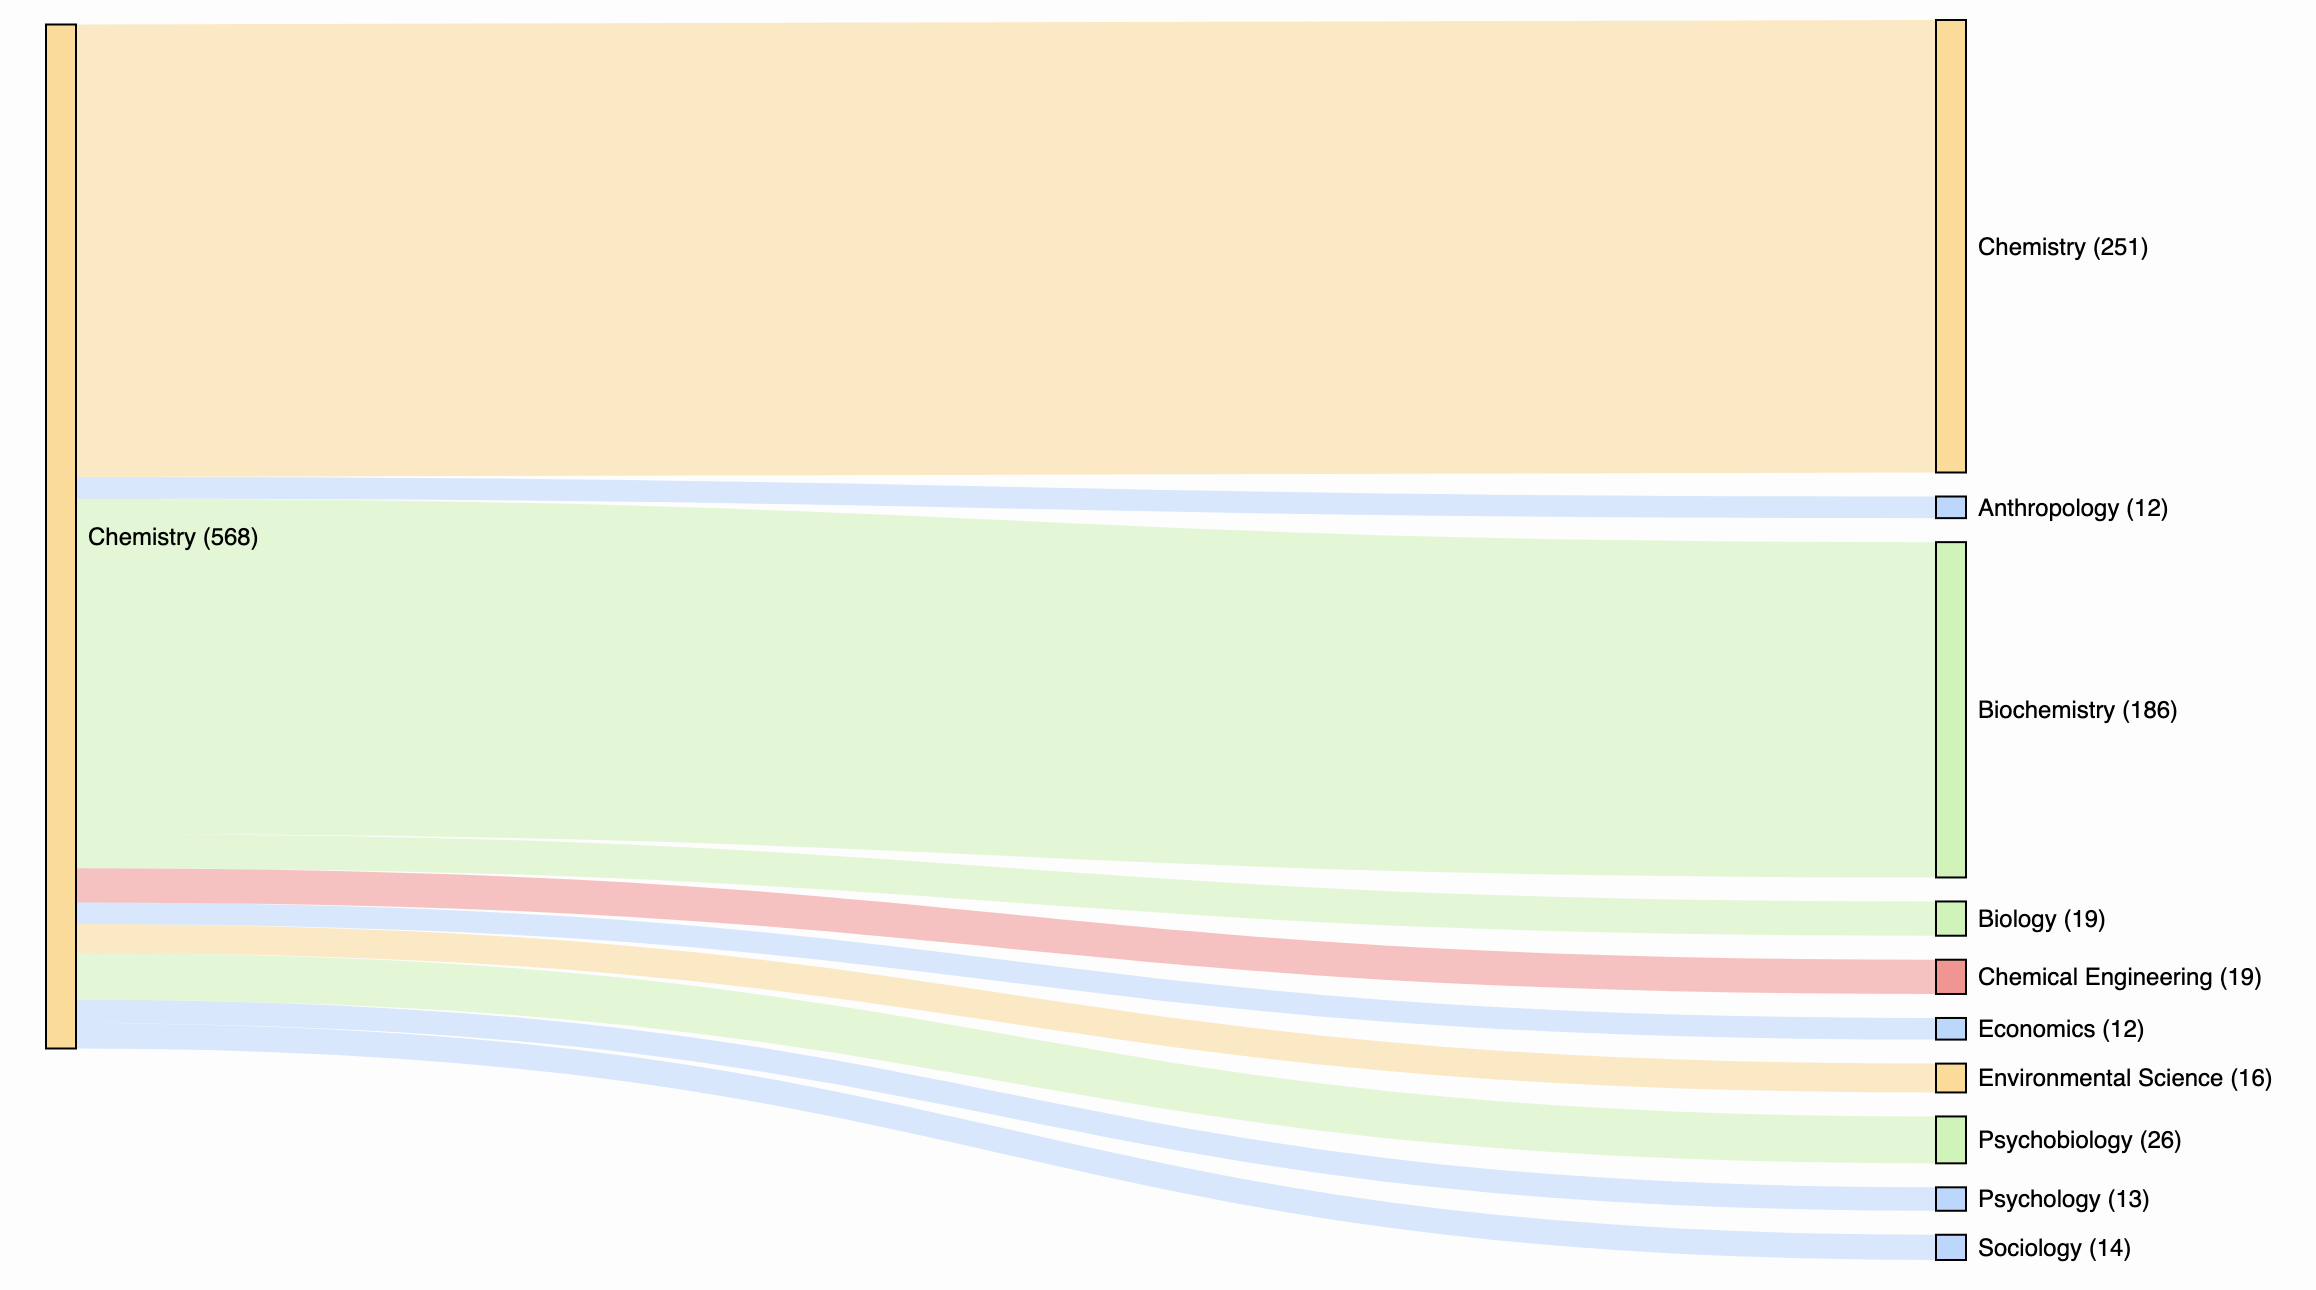
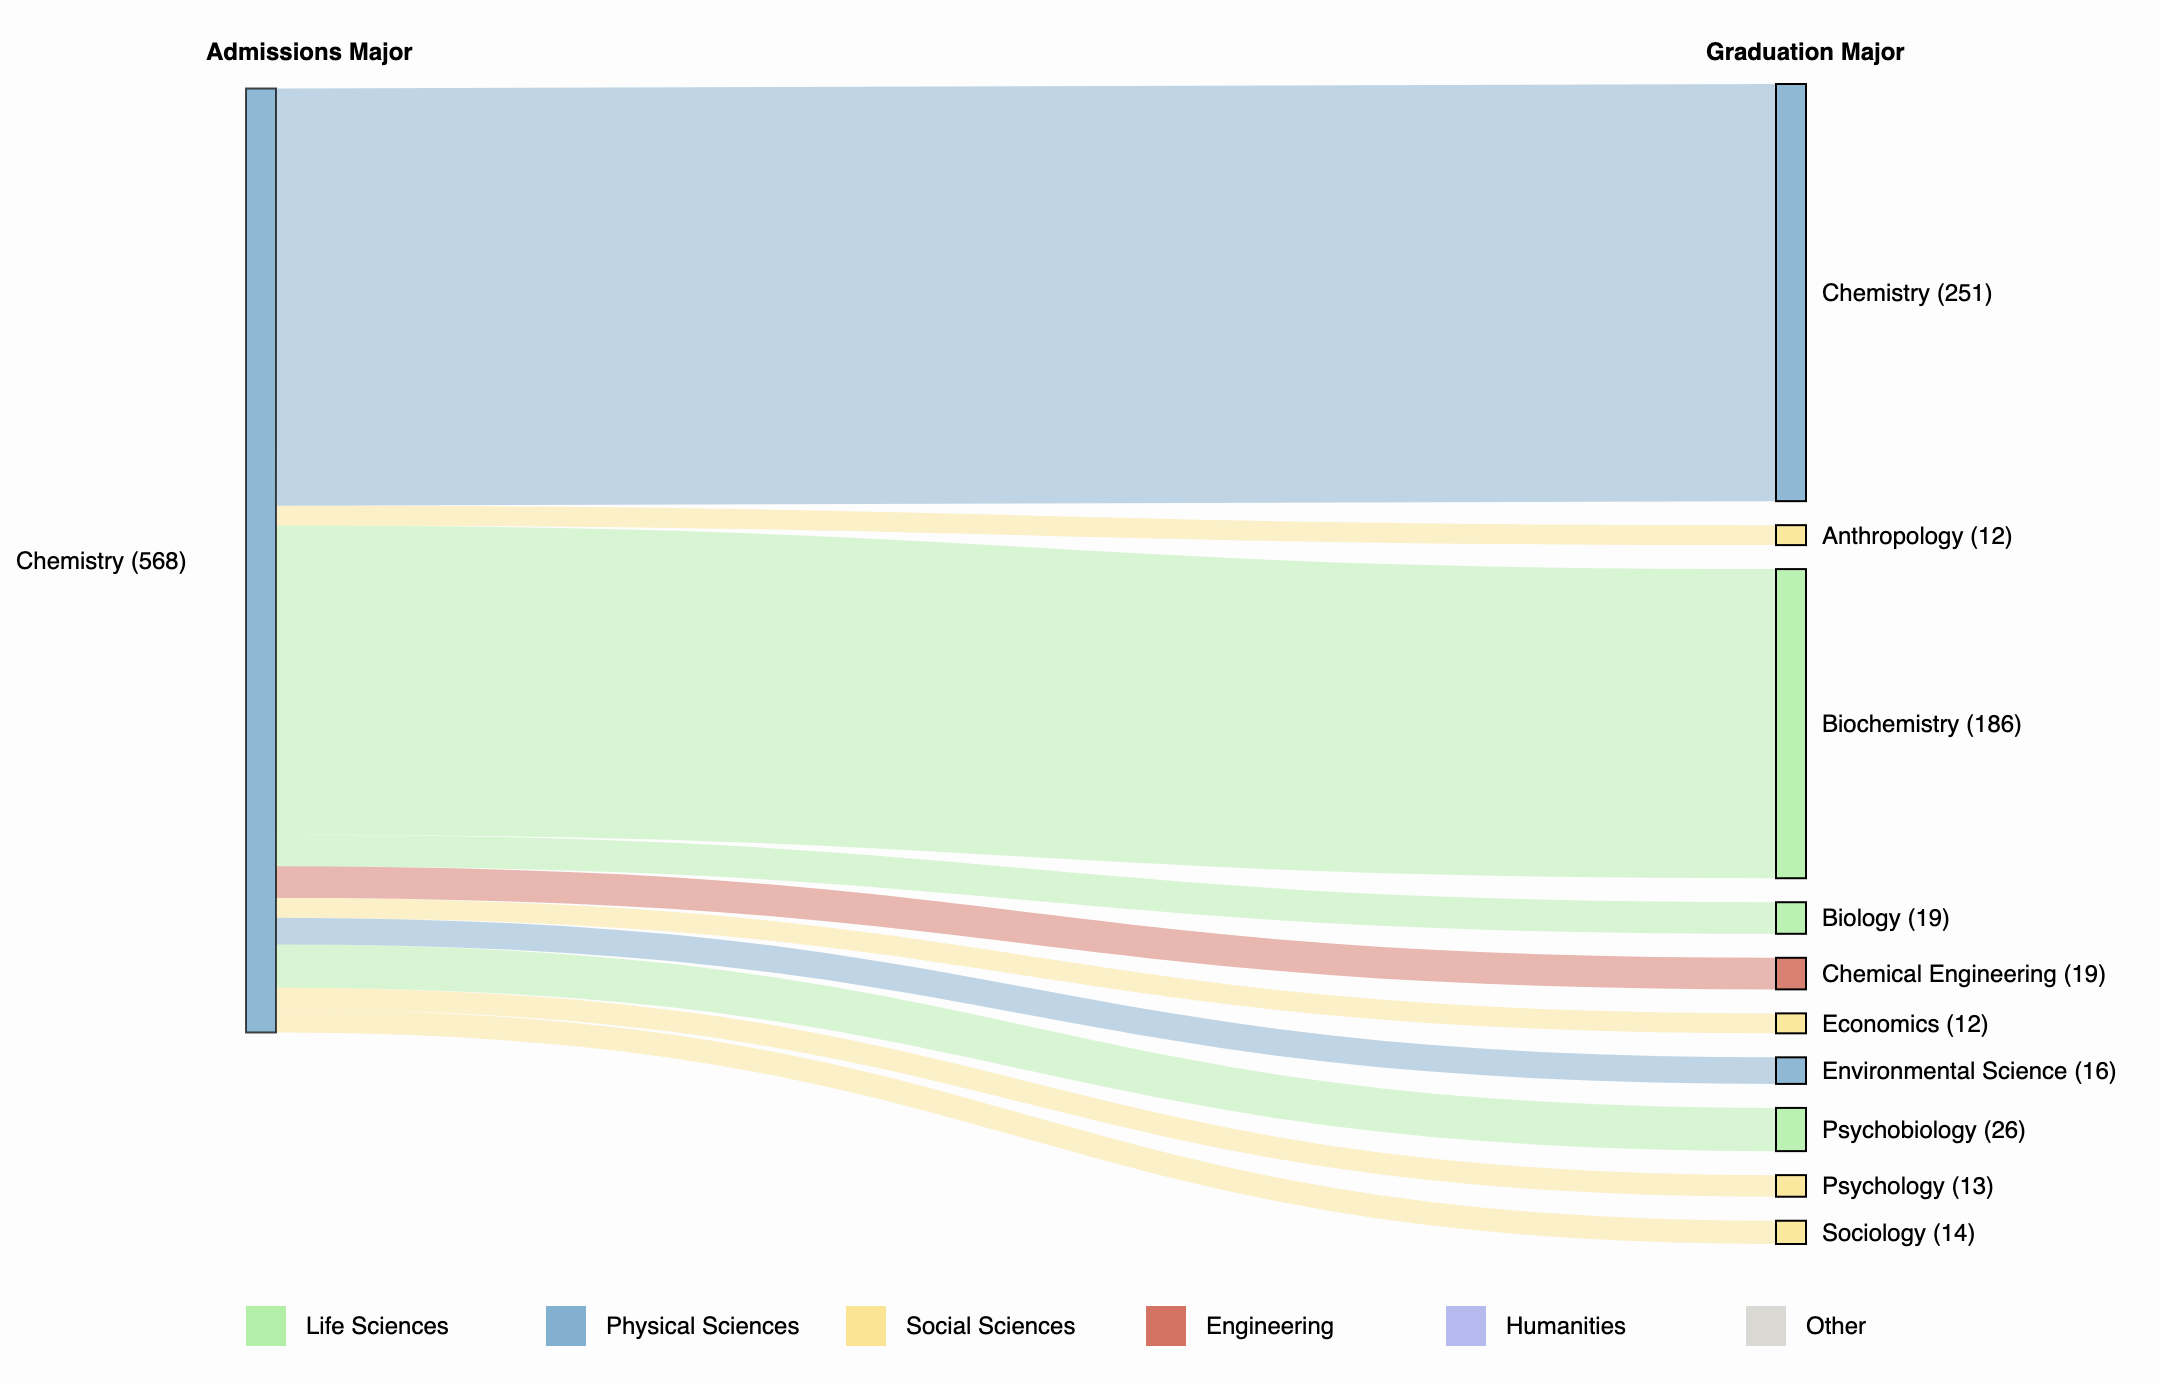
initial edits - finalize sankey

diff --git a/js/posts/change-major/sankey.js b/js/posts/change-major/sankey.js
@@ -1,28 +1,7 @@
 
         var units = "Widgets";
 
-        // the data, for now
-        var dataset = {
-                "nodes":[
-                {"name":"Biology"},
-                {"name":"Business Economics"},
-                {"name": "Biology "},
-                {"name":"Psychobiology"},
-                {"name":"Chemistry"},
-                {"name":"Applied Mathematics"},
-                {"name":"Psychology"}
-                ],
-                "links":[
-                {"source":0,"target":1,"value":32},
-                {"source":0,"target":2,"value":253},
-                {"source":0,"target":3,"value":37},
-                {"source":0,"target":4,"value":29},
-                {"source":0,"target":5,"value":11},
-                {"source":0,"target":6,"value":117}
-                
-            ]}
-
-        var color_map = JSON.parse("{\"Aerospace Engineering\":\"#ff8484\",\"African American Studies\":\"#f7f37e\",\"American Literature & Culture\":\"#f7f37e\",\"Anthropology\":\"#afd3ff\",\"Applied Linguistics\":\"#f7f37e\",\"Applied Mathematics\":\"#ffd782\",\"Architectural Studies\":\"#dbd9d4\",\"Art\":\"#dbd9d4\",\"Art History\":\"#f7f37e\",\"Asian American Studies\":\"#f7f37e\",\"Asian Humanities\":\"#f7f37e\",\"Asian Studies\":\"#f7f37e\",\"Astrophysics\":\"#ffd782\",\"Atmospheric And Oceanic Sciences\":\"#ffd782\",\"Biochemistry\":\"#c1f4ab\",\"Bioengineering\":\"#ff8484\",\"Biology\":\"#c1f4ab\",\"Business Economics\":\"#afd3ff\",\"Chemical Engineering\":\"#ff8484\",\"Chemistry\":\"#ffd782\",\"Chemistry - Material Science\":\"#ffd782\",\"Chicana & Chicano Studies\":\"#f7f37e\",\"Chinese\":\"#f7f37e\",\"Civil Engineering\":\"#ff8484\",\"Classical Civilization\":\"#f7f37e\",\"Cognitive Science\":\"#c1f4ab\",\"Communication Studies\":\"#afd3ff\",\"Comparative Literature\":\"#f7f37e\",\"Computer Science\":\"#ff8484\",\"Computer Science & Engineering\":\"#ff8484\",\"Dance\":\"#dbd9d4\",\"Design Media Arts\":\"#dbd9d4\",\"Ecology, Behavior & Evolution\":\"#c1f4ab\",\"Economics\":\"#afd3ff\",\"Electrical Engineering\":\"#ff8484\",\"English\":\"#f7f37e\",\"Environmental Science\":\"#ffd782\",\"Ethnomusicology\":\"#dbd9d4\",\"Film & Television\":\"#dbd9d4\",\"Financial Actuarial Mathematics\":\"#ffd782\",\"French\":\"#f7f37e\",\"Gender Studies\":\"#afd3ff\",\"Geography\":\"#afd3ff\",\"Geography/Environmental Studies\":\"#afd3ff\",\"Geology\":\"#ffd782\",\"Global Studies\":\"#afd3ff\",\"History\":\"#afd3ff\",\"Human Biology And Society\":\"#c1f4ab\",\"International Development Studies\":\"#afd3ff\",\"Japanese\":\"#f7f37e\",\"Jewish Studies\":\"#f7f37e\",\"Korean\":\"#f7f37e\",\"Latin-American Studies\":\"#f7f37e\",\"Linguistics\":\"#f7f37e\",\"Linguistics & Anthropology\":\"#f7f37e\",\"Linguistics & Asian Languages & Cultures\":\"#f7f37e\",\"Linguistics & Computer Science\":\"#f7f37e\",\"Linguistics & Psychology\":\"#f7f37e\",\"Marine Biology\":\"#c1f4ab\",\"Materials Engineering\":\"#ff8484\",\"Mathematics\":\"#ffd782\",\"Mathematics - Applied Science\":\"#ffd782\",\"Mathematics For Teaching\":\"#ffd782\",\"Mathematics Of Computation\":\"#ffd782\",\"Mathematics/Economics\":\"#ffd782\",\"Mechanical Engineering\":\"#ff8484\",\"Microbiology - Immunology - Molecular Genetics\":\"#c1f4ab\",\"Molecular, Cell, & Developmental Biology\":\"#c1f4ab\",\"Music\":\"#dbd9d4\",\"Musicology\":\"#dbd9d4\",\"Neuroscience\":\"#c1f4ab\",\"Nursing - Four Year Program\":\"#dbd9d4\",\"Philosophy\":\"#f7f37e\",\"Physics\":\"#ffd782\",\"Physiological Science\":\"#c1f4ab\",\"Political Science\":\"#afd3ff\",\"Psychobiology\":\"#c1f4ab\",\"Psychology\":\"#afd3ff\",\"Sociology\":\"#afd3ff\",\"Spanish\":\"#f7f37e\",\"Spanish And Community And Culture\":\"#f7f37e\",\"Statistics\":\"#ffd782\",\"Study Of Religion\":\"#f7f37e\",\"Theater\":\"#dbd9d4\",\"Undeclared\":\"#dbd9d4\",\"World Arts & Culture\":\"#dbd9d4\"}")
+        var color_map = JSON.parse("{\"Aerospace Engineering\":\"#E26C5D\",\"African American Studies\":\"#B5BAF2\",\"American Literature & Culture\":\"#B5BAF2\",\"Anthropology\":\"#FFE589\",\"Applied Linguistics\":\"#B5BAF2\",\"Applied Mathematics\":\"#77b1d2\",\"Architectural Studies\":\"#dbd9d4\",\"Art\":\"#dbd9d4\",\"Art History\":\"#B5BAF2\",\"Asian American Studies\":\"#B5BAF2\",\"Asian Humanities\":\"#B5BAF2\",\"Asian Studies\":\"#B5BAF2\",\"Astrophysics\":\"#77b1d2\",\"Atmospheric And Oceanic Sciences\":\"#77b1d2\",\"Biochemistry\":\"#A2F2A3\",\"Bioengineering\":\"#E26C5D\",\"Biology\":\"#A2F2A3\",\"Business Economics\":\"#FFE589\",\"Chemical Engineering\":\"#E26C5D\",\"Chemistry\":\"#77b1d2\",\"Chemistry - Material Science\":\"#77b1d2\",\"Chicana & Chicano Studies\":\"#B5BAF2\",\"Chinese\":\"#B5BAF2\",\"Civil Engineering\":\"#E26C5D\",\"Classical Civilization\":\"#B5BAF2\",\"Cognitive Science\":\"#A2F2A3\",\"Communication Studies\":\"#FFE589\",\"Comparative Literature\":\"#B5BAF2\",\"Computer Science\":\"#E26C5D\",\"Computer Science & Engineering\":\"#E26C5D\",\"Dance\":\"#dbd9d4\",\"Design Media Arts\":\"#dbd9d4\",\"Ecology, Behavior & Evolution\":\"#A2F2A3\",\"Economics\":\"#FFE589\",\"Electrical Engineering\":\"#E26C5D\",\"English\":\"#B5BAF2\",\"Environmental Science\":\"#77b1d2\",\"Ethnomusicology\":\"#dbd9d4\",\"Film & Television\":\"#dbd9d4\",\"Financial Actuarial Mathematics\":\"#77b1d2\",\"French\":\"#B5BAF2\",\"Gender Studies\":\"#FFE589\",\"Geography\":\"#FFE589\",\"Geography/Environmental Studies\":\"#FFE589\",\"Geology\":\"#77b1d2\",\"Global Studies\":\"#FFE589\",\"History\":\"#FFE589\",\"Human Biology And Society\":\"#A2F2A3\",\"International Development Studies\":\"#FFE589\",\"Japanese\":\"#B5BAF2\",\"Jewish Studies\":\"#B5BAF2\",\"Korean\":\"#B5BAF2\",\"Latin-American Studies\":\"#B5BAF2\",\"Linguistics\":\"#B5BAF2\",\"Linguistics & Anthropology\":\"#B5BAF2\",\"Linguistics & Asian Lang. & Cultures\":\"#B5BAF2\",\"Linguistics & Computer Science\":\"#B5BAF2\",\"Linguistics & Psychology\":\"#B5BAF2\",\"Marine Biology\":\"#A2F2A3\",\"Materials Engineering\":\"#E26C5D\",\"Mathematics\":\"#77b1d2\",\"Mathematics - Applied Science\":\"#77b1d2\",\"Mathematics For Teaching\":\"#77b1d2\",\"Mathematics Of Computation\":\"#77b1d2\",\"Mathematics/Economics\":\"#77b1d2\",\"Mechanical Engineering\":\"#E26C5D\",\"MIMG\":\"#A2F2A3\",\"MCDB\":\"#A2F2A3\",\"Music\":\"#dbd9d4\",\"Musicology\":\"#dbd9d4\",\"Neuroscience\":\"#A2F2A3\",\"Nursing - Four Year Program\":\"#dbd9d4\",\"Philosophy\":\"#B5BAF2\",\"Physics\":\"#77b1d2\",\"Physiological Science\":\"#A2F2A3\",\"Political Science\":\"#FFE589\",\"Psychobiology\":\"#A2F2A3\",\"Psychology\":\"#FFE589\",\"Sociology\":\"#FFE589\",\"Spanish\":\"#B5BAF2\",\"Spanish And Community And Culture\":\"#B5BAF2\",\"Statistics\":\"#77b1d2\",\"Study Of Religion\":\"#B5BAF2\",\"Theater\":\"#dbd9d4\",\"Undeclared\":\"#dbd9d4\",\"World Arts & Culture\":\"#dbd9d4\"}")
         
         function mcolor(name){
                 if(name in color_map) return(color_map[name])
@@ -30,14 +9,12 @@
                     return(color_map[name.substring(0, name.length-1)]);
                 }
             }
-
-
         //
 
 
 
-        var margin = {top: 10, right: 10, bottom: 10, left: 10},
-            width =  1200 - margin.left - margin.right,
+        var margin = {top: 50, right: 10, bottom: 10, left: 10},
+            width =  1350 - margin.left - margin.right,
             height = 650 - margin.top - margin.bottom;
         //
 
@@ -53,16 +30,13 @@
 
     function generateVis(dataset){
         
-        function dragmove (d){
-            console.log(d)
-        }
 
         // establish sankey object and calculate node 
         const sankey = d3.sankey()
             .nodeWidth(15)
             .nodePadding(12)
             .nodeAlign(d3.sankeyCenter)
-            .extent([[20, 5], [width - 300, height - 5]])
+            .extent([[250, 5], [width - 300, height - 5]])
             //.iterations(10);
         
         const {nodes, links} = sankey({
@@ -129,19 +103,36 @@
                 });
 
         
-        // add in text
+        // add in major text
         svg.append("g")
             .selectAll("text")
             .data(nodes)
             .join("text")
-            .attr("x", d => d.x1 < width / 2 ? d.x1 + 6 : d.x1 + 6 )
+            .attr("x", d => d.x1 < width / 2 ? d.x0 - 5 * (d.name.length) - 70: d.x1 + 8 )
             .attr("y", d => (d.y1 + d.y0) / 2)
             .attr("dy", "0.35em")
             .attr("text-anchor", d => d.x1 < width ? "start" : "end")
             .text(d => d.name + " (" + d.value + ")")
-            .style("font", d => "12px sans-serif")
-
+            .style("text-align", "justify")
+            .style("font", d => "12px sans-serif");
         //
+
+
+
+    // add text legend 
+
+            svg.append("g")
+            .selectAll(".text-legend")
+            .data(["Admissions Major", "Graduation Major"])
+            .join("text")
+            .attr("x", (d,i) => {if(i == 0) return(230)
+                                else return(980)})
+            .attr("y", -7)
+            .text(d => d)
+            .style("color", "red")
+            .style("font", d => "12px sans-serif")
+            .style("font-weight", "bold");
+            
         }
 
     
@@ -180,6 +171,13 @@
 
         
     });
+
+
+
+
+
+
+    // legend bottom
        
     var label_rects = d3.select("#label")
         .append("svg")
@@ -193,14 +191,14 @@
         .classed("label-rect", true)
         .attr("width", 20)
         .attr("height", 20)
-        .attr("x", (d,i) =>  i * 150 + 50)
+        .attr("x", (d,i) =>  i * 150 + 260)
         .attr("y", 10)
         .attr("fill", function(d,i){
-            if(d === "Life Sciences") return("#c1f4ab")
-            else if(d === "Physical Sciences") return("#ffd782")
-            else if (d === "Social Sciences") return("#afd3ff")
-            else if (d === "Humanities") return("#f7f37e")
-            else if (d === "Engineering") return("#ff8484")
+            if(d === "Life Sciences") return("#A2F2A3")
+            else if(d === "Physical Sciences") return("#77b1d2")
+            else if (d === "Social Sciences") return("#FFE589")
+            else if (d === "Humanities") return("#B5BAF2")
+            else if (d === "Engineering") return("#E26C5D")
             else return("#dbd9d4")
         });
 
@@ -209,10 +207,11 @@
         .enter()
         .append("text")
         .attr("class", "label-text")
-        .attr("x", (d,i) => i * 150 + 80)
+        .attr("x", (d,i) => i * 150 + 290)
         .attr("y", 20)
         .attr("dy", "0.35em")
         .text(d => d)
         .style("font", d => "12px sans-serif");
+
 
         

diff --git a/_posts/2019-04-20-change-major.md b/_posts/2019-04-20-change-major.md
@@ -1,5 +1,5 @@
 ---
-title: Wanna Switch? UCLA Students' Major Changes from Admissions to Graduation
+title: UCLA Students' Major Changes from Admissions to Graduation
 teaser: A look at how UCLA Students change their majors from their time of admissions to eventual degree, data aggregated from 2013-2018.
 authors:
   - jeanette_lin
